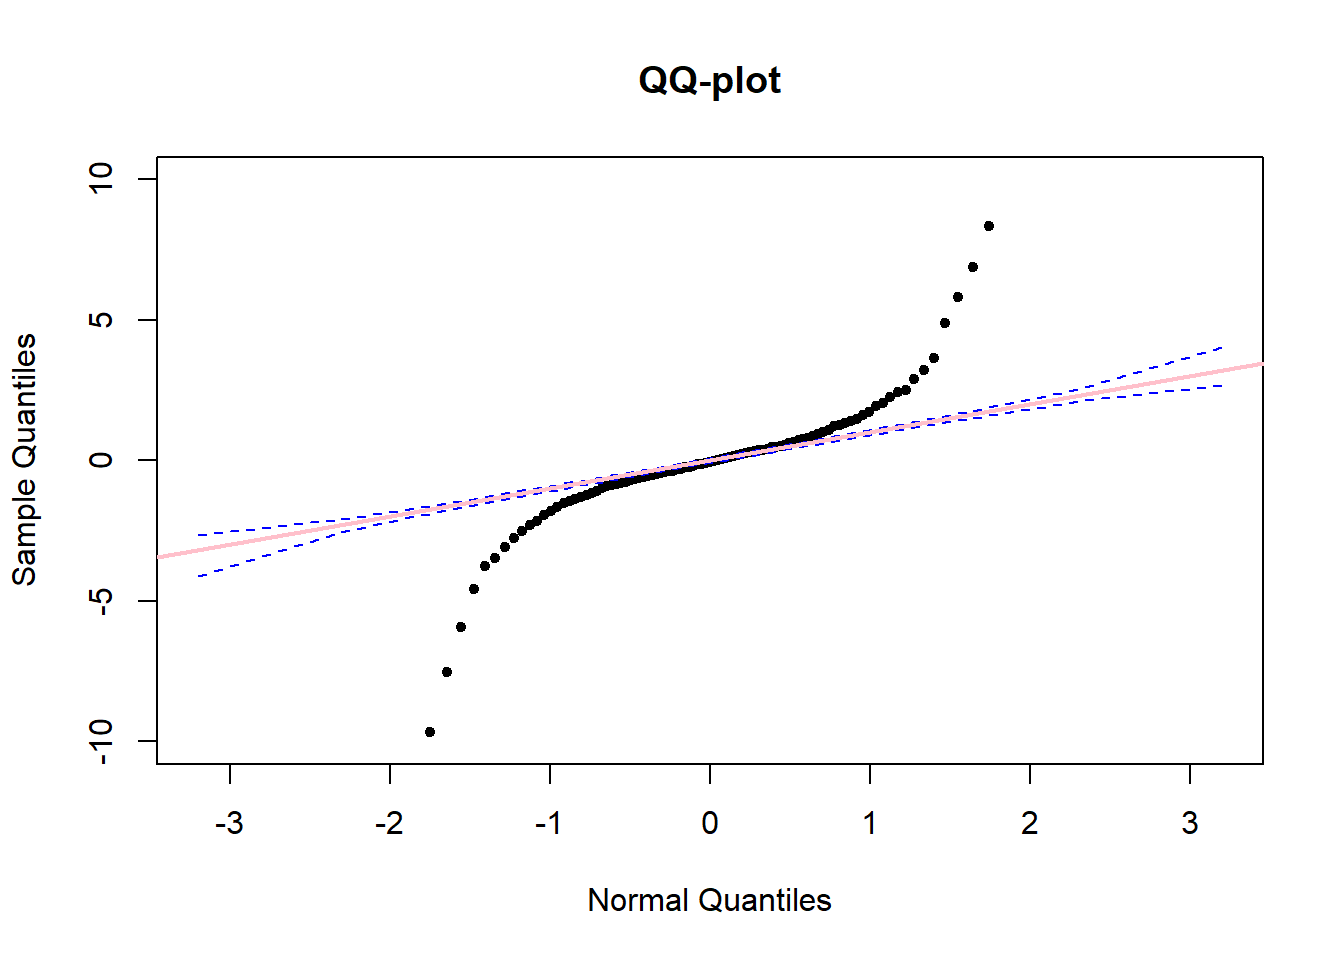
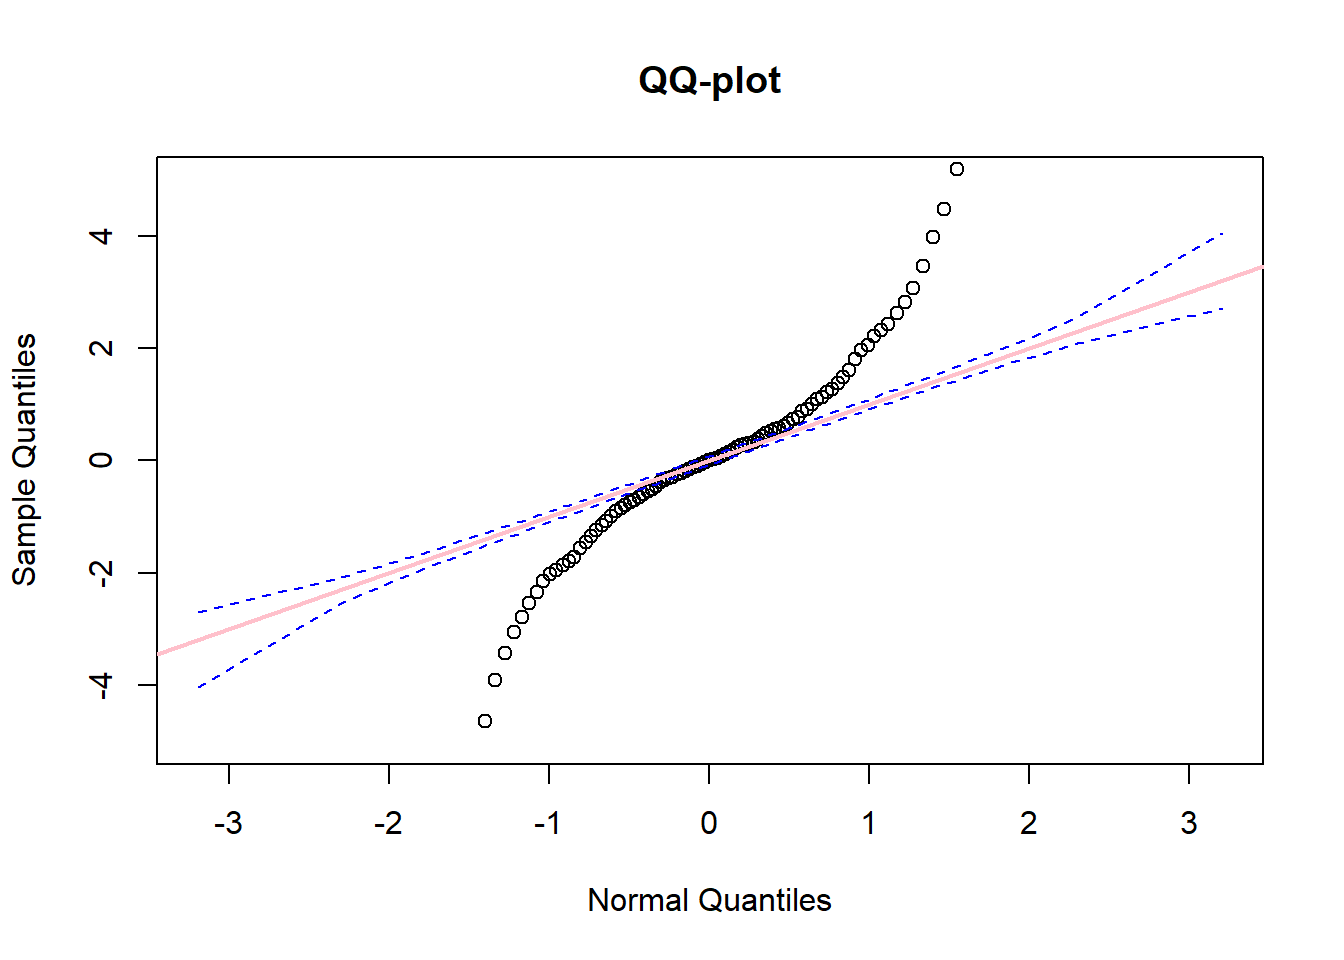
update

diff --git a/docs/Day3_Practicals/Practical3_Submission.html b/docs/Day3_Practicals/Practical3_Submission.html
@@ -201,7 +201,7 @@ pre > code.sourceCode > span > a:first-child::before { text-decoration: underlin
 <span id="cb2-7"><a href="#cb2-7" aria-hidden="true" tabindex="-1"></a>tdist_quant <span class="ot">&lt;-</span> <span class="fu">quantile</span>(t_dist, <span class="at">probs =</span> prob_seq) </span>
 <span id="cb2-8"><a href="#cb2-8" aria-hidden="true" tabindex="-1"></a><span class="co">#norm_dist_quants &lt;- quantile(norm_dist, probs = prob_seq)</span></span>
 <span id="cb2-9"><a href="#cb2-9" aria-hidden="true" tabindex="-1"></a></span>
-<span id="cb2-10"><a href="#cb2-10" aria-hidden="true" tabindex="-1"></a><span class="co">#Use Bootstrapping to simulate 1000 norms</span></span>
+<span id="cb2-10"><a href="#cb2-10" aria-hidden="true" tabindex="-1"></a><span class="co">#Use Bootstrapping to simulate 1000 norms dist with 1000 values in each </span></span>
 <span id="cb2-11"><a href="#cb2-11" aria-hidden="true" tabindex="-1"></a>B <span class="ot">&lt;-</span> <span class="dv">1000</span></span>
 <span id="cb2-12"><a href="#cb2-12" aria-hidden="true" tabindex="-1"></a>norm_quants <span class="ot">&lt;-</span> <span class="fu">replicate</span>(B, {</span>
 <span id="cb2-13"><a href="#cb2-13" aria-hidden="true" tabindex="-1"></a>  norm_dist <span class="ot">&lt;-</span> <span class="fu">rnorm</span>(<span class="dv">1000</span>)</span>
@@ -209,15 +209,15 @@ pre > code.sourceCode > span > a:first-child::before { text-decoration: underlin
 <span id="cb2-15"><a href="#cb2-15" aria-hidden="true" tabindex="-1"></a>})</span>
 <span id="cb2-16"><a href="#cb2-16" aria-hidden="true" tabindex="-1"></a></span>
 <span id="cb2-17"><a href="#cb2-17" aria-hidden="true" tabindex="-1"></a></span>
-<span id="cb2-18"><a href="#cb2-18" aria-hidden="true" tabindex="-1"></a>upper <span class="ot">&lt;-</span> <span class="fu">apply</span>(norm_quants,<span class="dv">1</span>, quantile, <span class="at">probs =</span> <span class="fl">0.025</span>)</span>
+<span id="cb2-18"><a href="#cb2-18" aria-hidden="true" tabindex="-1"></a>upper <span class="ot">&lt;-</span> <span class="fu">apply</span>(norm_quants,<span class="dv">1</span>, quantile, <span class="at">probs =</span> <span class="fl">0.025</span>) <span class="co">#apply to quantile over all the rows and return the 2.5th percentile</span></span>
 <span id="cb2-19"><a href="#cb2-19" aria-hidden="true" tabindex="-1"></a>lower <span class="ot">&lt;-</span> <span class="fu">apply</span>(norm_quants,<span class="dv">1</span>, quantile, <span class="at">probs =</span> <span class="fl">0.975</span>)</span>
-<span id="cb2-20"><a href="#cb2-20" aria-hidden="true" tabindex="-1"></a>norm_med <span class="ot">&lt;-</span> <span class="fu">apply</span>(norm_quants,<span class="dv">1</span>,quantile, <span class="at">probs =</span> <span class="fl">0.50</span>)</span>
+<span id="cb2-20"><a href="#cb2-20" aria-hidden="true" tabindex="-1"></a>norm_med <span class="ot">&lt;-</span> <span class="fu">apply</span>(norm_quants,<span class="dv">1</span>,quantile, <span class="at">probs =</span> <span class="fl">0.50</span>) <span class="co">#get the med aswell</span></span>
 <span id="cb2-21"><a href="#cb2-21" aria-hidden="true" tabindex="-1"></a></span>
 <span id="cb2-22"><a href="#cb2-22" aria-hidden="true" tabindex="-1"></a><span class="co">#Calculate quantiles for normal distribution, plot against tdistribution</span></span>
 <span id="cb2-23"><a href="#cb2-23" aria-hidden="true" tabindex="-1"></a><span class="co">#How to find quantiles </span></span>
 <span id="cb2-24"><a href="#cb2-24" aria-hidden="true" tabindex="-1"></a><span class="fu">plot</span>(norm_med, tdist_quant, <span class="at">main =</span> <span class="st">"QQ-plot"</span>,</span>
 <span id="cb2-25"><a href="#cb2-25" aria-hidden="true" tabindex="-1"></a>     <span class="at">xlab =</span> <span class="st">"Normal Quantiles"</span>, <span class="at">ylab =</span> <span class="st">"Sample Quantiles"</span>,</span>
-<span id="cb2-26"><a href="#cb2-26" aria-hidden="true" tabindex="-1"></a>     <span class="at">ylim =</span> <span class="fu">c</span>(<span class="sc">-</span><span class="dv">10</span>, <span class="dv">10</span>), <span class="at">pch =</span> <span class="dv">20</span>)</span>
+<span id="cb2-26"><a href="#cb2-26" aria-hidden="true" tabindex="-1"></a>     <span class="at">ylim =</span> <span class="fu">c</span>(<span class="sc">-</span><span class="dv">5</span>, <span class="dv">5</span>), <span class="at">pch =</span> <span class="dv">1</span>)</span>
 <span id="cb2-27"><a href="#cb2-27" aria-hidden="true" tabindex="-1"></a></span>
 <span id="cb2-28"><a href="#cb2-28" aria-hidden="true" tabindex="-1"></a><span class="fu">lines</span>(norm_med, lower, <span class="at">col =</span> <span class="st">"blue"</span>, <span class="at">lty =</span> <span class="dv">2</span>)</span>
 <span id="cb2-29"><a href="#cb2-29" aria-hidden="true" tabindex="-1"></a><span class="fu">lines</span>(norm_med, upper, <span class="at">col =</span> <span class="st">"blue"</span>, <span class="at">lty =</span> <span class="dv">2</span>)</span>
@@ -248,8 +248,8 @@ pre > code.sourceCode > span > a:first-child::before { text-decoration: underlin
 </div>
 </div>
 <div class="cell-output cell-output-stdout">
-<pre><code>100%   0% 
- 101    1 </code></pre>
+<pre><code>  0% 100% 
+   1  101 </code></pre>
 </div>
 </div>
 

diff --git a/docs/Day4_Practicals/Practical_4.html b/docs/Day4_Practicals/Practical_4.html
@@ -803,52 +803,52 @@ Caused by warning in `origin == diff$origin`:
 <div class="code-copy-outer-scaffold"><div class="sourceCode cell-code" id="cb62"><pre class="sourceCode r code-with-copy"><code class="sourceCode r"><span id="cb62-1"><a href="#cb62-1" aria-hidden="true" tabindex="-1"></a>UtilsDataRSV<span class="sc">::</span><span class="fu">view_cols</span>(given_data)</span></code></pre></div><button title="Copy to Clipboard" class="code-copy-button"><i class="bi"></i></button></div>
 <div class="cell-output cell-output-stdout">
 <pre><code>[1] "id"
- [1] "id_23" "id_49" "id_45" "id_39" "id_35" "id_9"  "id_7"  "id_12" "id_22"
-[10] "id_15" "id_48" "id_29" "id_32" "id_50" "id_14" "id_46" "id_38" "id_27"
-[19] "id_31" "id_20"
+ [1] "id_20" "id_44" "id_19" "id_37" "id_30" "id_27" "id_3"  "id_14" "id_28"
+[10] "id_10" "id_31" "id_29" "id_11" "id_24" "id_36" "id_7"  "id_21" "id_26"
+[19] "id_41" "id_33"
 [1] "30 unique entries not displayed"
 [1] "_____________________"
 [1] "age"
-[1] 79 54 45 71 29
+[1] 50 71 47 28 76
 [1] "_____________________"
 [1] "gender"
-[1] "male"   "female" "femal" 
+[1] "female" "male"   "femal" 
 [1] "_____________________"
 [1] "height"
-[1] 194.5 183.6 177.5 181.0    NA
+[1] 161.6 194.5 154.6 186.9    NA
 [1] "_____________________"
 [1] "weight"
-[1] 99.3 57.6 60.9 83.4 63.3
+[1] 81.5 63.3 93.7 87.0 68.7
 [1] "_____________________"
 [1] "blood_type"
-[1] "O"  "A"  "B"  "AB"
+[1] "A"  "AB" "O"  "B" 
 [1] "_____________________"
 [1] "disease_status"
 [1] "healthy"  "Healthy"  "diseased"
 [1] "_____________________"
 [1] "cholesterol"
-[1] 164 174 233 166 185
+[1] 235 181 233 174 187
 [1] "_____________________"
 [1] "glucose"
-[1]  71  78 109  99  NA
+[1] 115  88  76 106  NA
 [1] "_____________________"
 [1] "smoker"
 [1] "yes" "no" 
 [1] "_____________________"
 [1] "exercise"
-[1] "regular"    "none"       "occasional"
+[1] "regular"    "occasional" "none"      
 [1] "_____________________"
 [1] "income"
-[1] 47553 27689 81547 22588 31402
+[1] 96351 91326 57315 62405 47553
 [1] "_____________________"
 [1] "education"
-[1] "PhD"        "bachelor"   "highschool" "master"    
+[1] "PhD"        "highschool" "master"     "bachelor"  
 [1] "_____________________"
 [1] "region"
-[1] "North" "East"  "South" "West" 
+[1] "North" "West"  "East"  "South"
 [1] "_____________________"
 [1] "marital_status"
-[1] "married"  "divorced" "single"   "widowed" 
+[1] "single"   "married"  "widowed"  "divorced"
 [1] "_____________________"</code></pre>
 </div>
 <div class="cell-output cell-output-stderr">
